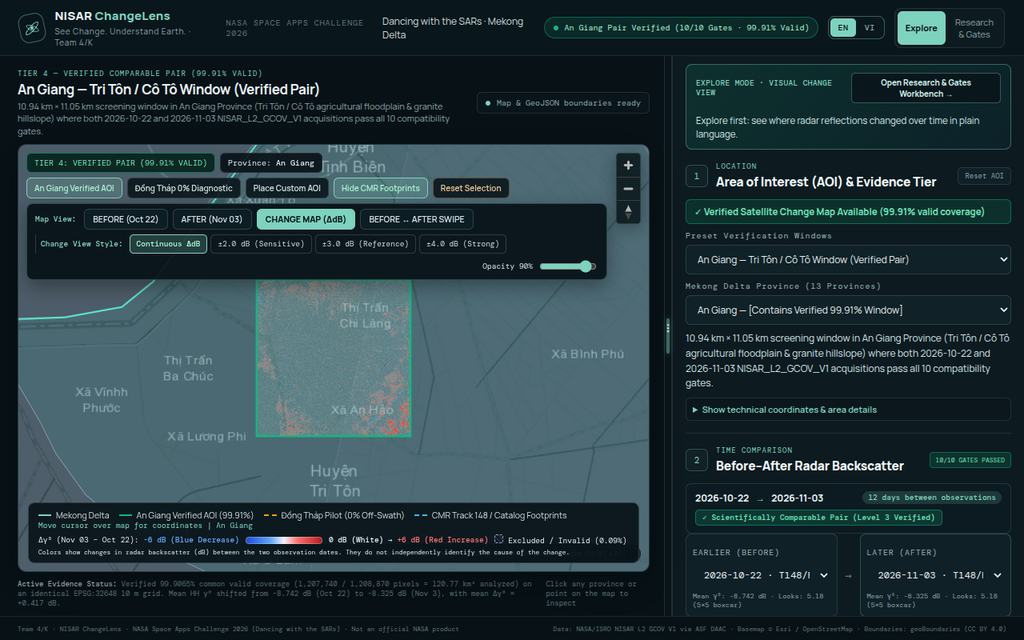
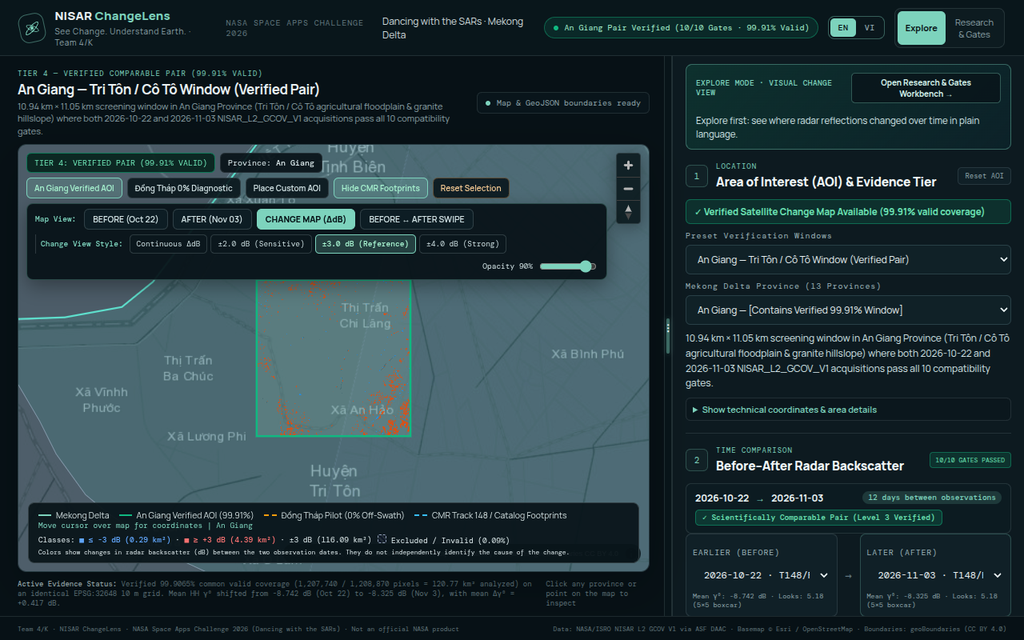
fix(ui): stop claiming the verified result when a blocked pair is selected
The map already hid the verified rasters for a pair that fails the gates,
but the workspace title and description, the map caption (mean delta
+0.417 dB), the AOI valid-coverage figure and the evidence ladder (Tier 4
"All 10 Compatibility Gates Passed") still described the verified
2026-10-22 -> 2026-11-03 pair.

- Derive displayArea from the active area and the selected pair; in the
  An Giang window with an unverified pair it uses pending copy, hides the
  valid-coverage figure and caps the evidence tier at Tier 2 (or Tier 1
  if a footprint misses the window).
- Add a regression test covering title, caption and evidence ladder.
- Remove five translation keys left unused by the old swipe dock.
- Retake screenshots 07 and 08, and retake 06 at the +/-3 dB reference
  threshold so it no longer duplicates 01; update its README caption.

diff --git a/frontend/src/App.tsx b/frontend/src/App.tsx
@@ -269,6 +269,36 @@ function AppWorkbench({ initialMode }: { initialMode?: ViewMode }) {
     [afterConceptId]
   );
 
+  // What the workspace may claim about the active area for the *selected* pair.
+  // The An Giang preset describes the verified 2026-10-22 → 2026-11-03 pair; when
+  // another pair is selected those claims (label, summary, valid %, Tier 4) do not apply.
+  const displayArea: StudyAreaPreset = useMemo(() => {
+    if (area !== 'angiang-screening' || compatibility.allPassed) return activeArea;
+    const bothIntersect = [selectedBeforeGranule, selectedAfterGranule].every(
+      (g) => g !== undefined && bboxesIntersect(g.footprintBbox, activeArea.bbox)
+    );
+    const label = t('area.angiangPendingLabel');
+    const description = t('area.angiangPendingDesc');
+    const summary = t('area.angiangPendingSummary');
+    const badge = t('map.pairPendingBadge');
+    return {
+      ...activeArea,
+      label,
+      label_vi: label,
+      description,
+      description_vi: description,
+      scientificSummary: summary,
+      scientificSummary_vi: summary,
+      evidenceBadge: badge,
+      evidenceBadge_vi: badge,
+      evidenceTier: bothIntersect ? 'TIER_2_FOOTPRINT' : 'TIER_1_CATALOG',
+      comparisonAvailable: false,
+      validCoveragePct: null,
+      commonValidPixels: null,
+      totalPixels: null,
+    };
+  }, [area, compatibility.allPassed, activeArea, selectedBeforeGranule, selectedAfterGranule, t]);
+
   const activeThresholdPreset = useMemo(
     () =>
       VISUALIZATION_THRESHOLD_PRESETS.find((p) => p.id === visualizationThreshold) ??
@@ -454,12 +484,10 @@ function AppWorkbench({ initialMode }: { initialMode?: ViewMode }) {
           <div className="map-toolbar">
             <div>
               <span className="eyebrow" data-testid="area-evidence-badge">
-                {area === 'angiang-screening' && !compatibility.allPassed
-                  ? t('map.pairPendingBadge')
-                  : pick(activeArea.evidenceBadge, activeArea.evidenceBadge_vi)}
+                {pick(displayArea.evidenceBadge, displayArea.evidenceBadge_vi)}
               </span>
-              <h1>{pick(activeArea.label, activeArea.label_vi)}</h1>
-              <p>{pick(activeArea.description, activeArea.description_vi)}</p>
+              <h1>{pick(displayArea.label, displayArea.label_vi)}</h1>
+              <p>{pick(displayArea.description, displayArea.description_vi)}</p>
             </div>
             <div className="map-toolbar-right">
               {railWidth !== DEFAULT_RAIL_WIDTH && (
@@ -514,7 +542,7 @@ function AppWorkbench({ initialMode }: { initialMode?: ViewMode }) {
           <div className="map-caption">
             <span>
               <b>{t('map.activeEvidencePrefix')}</b>{' '}
-              {pick(activeArea.scientificSummary, activeArea.scientificSummary_vi)}
+              {pick(displayArea.scientificSummary, displayArea.scientificSummary_vi)}
             </span>
             <span>
               {location
@@ -650,7 +678,7 @@ function AppWorkbench({ initialMode }: { initialMode?: ViewMode }) {
                 ))}
                 {area === 'custom-aoi' && (
                   <option value="custom-aoi">
-                    {pick(activeArea.label, activeArea.label_vi)}
+                    {pick(displayArea.label, displayArea.label_vi)}
                   </option>
                 )}
               </select>
@@ -678,7 +706,7 @@ function AppWorkbench({ initialMode }: { initialMode?: ViewMode }) {
               {mode === 'explore' ? (
                 <>
                   <p className="explore-location-desc">
-                    {pick(activeArea.description, activeArea.description_vi)}
+                    {pick(displayArea.description, displayArea.description_vi)}
                   </p>
                   <details className="explore-progressive-details">
                     <summary>{t('explore.sec1.coordsSummary')}</summary>
@@ -686,16 +714,16 @@ function AppWorkbench({ initialMode }: { initialMode?: ViewMode }) {
                       <div className="metric-box">
                         <span className="metric-label">{t('sec1.bboxLabel')}</span>
                         <strong>
-                          [{activeArea.bbox[0].toFixed(2)}°E, {activeArea.bbox[1].toFixed(2)}°N,{' '}
-                          {activeArea.bbox[2].toFixed(2)}°E, {activeArea.bbox[3].toFixed(2)}°N]
+                          [{displayArea.bbox[0].toFixed(2)}°E, {displayArea.bbox[1].toFixed(2)}°N,{' '}
+                          {displayArea.bbox[2].toFixed(2)}°E, {displayArea.bbox[3].toFixed(2)}°N]
                         </strong>
                       </div>
                       <div className="metric-box">
                         <span className="metric-label">{t('sec1.areaValidLabel')}</span>
                         <strong>
-                          {activeArea.areaKm2.toLocaleString()} km² ·{' '}
-                          {activeArea.validCoveragePct !== null
-                            ? `${activeArea.validCoveragePct.toFixed(2)}% ${t('sec1.validSuffix')}`
+                          {displayArea.areaKm2.toLocaleString()} km² ·{' '}
+                          {displayArea.validCoveragePct !== null
+                            ? `${displayArea.validCoveragePct.toFixed(2)}% ${t('sec1.validSuffix')}`
                             : t('sec1.unverifiedSubset')}
                         </strong>
                       </div>
@@ -708,16 +736,16 @@ function AppWorkbench({ initialMode }: { initialMode?: ViewMode }) {
                     <div className="metric-box">
                       <span className="metric-label">{t('sec1.bboxLabel')}</span>
                       <strong>
-                        [{activeArea.bbox[0].toFixed(2)}°E, {activeArea.bbox[1].toFixed(2)}°N,{' '}
-                        {activeArea.bbox[2].toFixed(2)}°E, {activeArea.bbox[3].toFixed(2)}°N]
+                        [{displayArea.bbox[0].toFixed(2)}°E, {displayArea.bbox[1].toFixed(2)}°N,{' '}
+                        {displayArea.bbox[2].toFixed(2)}°E, {displayArea.bbox[3].toFixed(2)}°N]
                       </strong>
                     </div>
                     <div className="metric-box">
                       <span className="metric-label">{t('sec1.areaValidLabel')}</span>
                       <strong>
-                        {activeArea.areaKm2.toLocaleString()} km² ·{' '}
-                        {activeArea.validCoveragePct !== null
-                          ? `${activeArea.validCoveragePct.toFixed(2)}% ${t('sec1.validSuffix')}`
+                        {displayArea.areaKm2.toLocaleString()} km² ·{' '}
+                        {displayArea.validCoveragePct !== null
+                          ? `${displayArea.validCoveragePct.toFixed(2)}% ${t('sec1.validSuffix')}`
                           : t('sec1.unverifiedSubset')}
                       </strong>
                     </div>
@@ -726,11 +754,11 @@ function AppWorkbench({ initialMode }: { initialMode?: ViewMode }) {
                   <div className="evidence-ladder" aria-label={t('sec1.ladderAria')}>
                     <span className="field-label">{t('sec1.ladderTitle')}</span>
                     {EVIDENCE_TIERS.map((tier) => {
-                      const isCurrent = activeArea.evidenceTier === tier.id;
+                      const isCurrent = displayArea.evidenceTier === tier.id;
                       const isPassed =
-                        (activeArea.evidenceTier === 'TIER_4_COMPARABLE' && tier.level <= 4) ||
-                        (activeArea.evidenceTier === 'TIER_2_FOOTPRINT' && tier.level <= 2) ||
-                        (activeArea.evidenceTier === 'TIER_1_CATALOG' && tier.level === 1);
+                        (displayArea.evidenceTier === 'TIER_4_COMPARABLE' && tier.level <= 4) ||
+                        (displayArea.evidenceTier === 'TIER_2_FOOTPRINT' && tier.level <= 2) ||
+                        (displayArea.evidenceTier === 'TIER_1_CATALOG' && tier.level === 1);
                       return (
                         <div
                           key={tier.id}

diff --git a/frontend/src/i18n/translations.ts b/frontend/src/i18n/translations.ts
@@ -42,6 +42,11 @@ export const TRANSLATIONS: Record<Language, Record<string, string>> = {
     'banner.pairBlockedBody':
       'The verified 2026-10-22 → 2026-11-03 change layers are hidden so they are not mistaken for this pair.',
     'explore.sec1.statusPairPending': '⚠ Selected pair not verified — change map hidden',
+    'area.angiangPendingLabel': 'An Giang — Tri Tôn / Cô Tô Window',
+    'area.angiangPendingDesc':
+      '10.94 km × 11.05 km screening window in An Giang Province (Tri Tôn / Cô Tô). The selected observation pair has not passed the compatibility gates here, so no change result is shown for it. The verified pair for this window is 2026-10-22 → 2026-11-03.',
+    'area.angiangPendingSummary':
+      'Selected pair not verified for this window. Statistics from the verified 2026-10-22 → 2026-11-03 pair are hidden until that pair is selected.',
     'hud.tier1Catalog': 'TIER 1: MEKONG CATALOG (29 GRANULES)',
     'hud.provincePrefix': 'Province:',
     'hud.btnAnGiang': 'An Giang Verified AOI',
@@ -73,12 +78,6 @@ export const TRANSLATIONS: Record<Language, Record<string, string>> = {
 
     // Swipe Dock on Map
     'swipe.dockAria': 'Before and After NISAR HH backscatter swipe comparison',
-    'swipe.title': 'Before / After Calibrated Backscatter Swipe',
-    'swipe.subtitle':
-      'An Giang [104.95, 10.45, 105.05, 10.55] · EPSG:32648 10 m · 1,207,740 valid pixels',
-    'swipe.badge': 'REAL NISAR L2 GCOV V1',
-    'swipe.beforeAlt': 'Before: 2026-10-22 NISAR HHHH gamma-0 dB',
-    'swipe.afterAlt': 'After: 2026-11-03 NISAR HHHH gamma-0 dB',
     'swipe.tagLeft': '2026-10-22 (Before · Mean -8.74 dB)',
     'swipe.tagRight': '2026-11-03 (After · Mean -8.33 dB)',
     'swipe.splitLabel': 'Swipe Split',
@@ -413,6 +412,11 @@ export const TRANSLATIONS: Record<Language, Record<string, string>> = {
     'banner.pairBlockedBody':
       'Các lớp biến động đã xác thực 2026-10-22 → 2026-11-03 được ẩn để không bị nhầm là kết quả của cặp ảnh này.',
     'explore.sec1.statusPairPending': '⚠ Cặp ảnh đã chọn chưa xác thực — đã ẩn bản đồ biến động',
+    'area.angiangPendingLabel': 'An Giang — Cửa sổ Tri Tôn / Cô Tô',
+    'area.angiangPendingDesc':
+      'Cửa sổ sàng lọc 10,94 km × 11,05 km tại tỉnh An Giang (Tri Tôn / Cô Tô). Cặp ảnh đang chọn chưa vượt qua các cổng kiểm tra tương thích tại đây, nên không hiển thị kết quả biến động cho cặp này. Cặp ảnh đã xác thực của cửa sổ này là 2026-10-22 → 2026-11-03.',
+    'area.angiangPendingSummary':
+      'Cặp ảnh đang chọn chưa được xác thực cho cửa sổ này. Số liệu của cặp đã xác thực 2026-10-22 → 2026-11-03 được ẩn cho đến khi chọn lại cặp đó.',
     'hud.tier1Catalog': 'TẦNG 1: DANH MỤC ĐBSCL (29 GRANULE)',
     'hud.provincePrefix': 'Tỉnh/Thành:',
     'hud.btnAnGiang': 'AOI An Giang (Đã xác thực)',
@@ -444,12 +448,6 @@ export const TRANSLATIONS: Record<Language, Record<string, string>> = {
 
     // Swipe Dock on Map
     'swipe.dockAria': 'So sánh trượt tán xạ ngược HH NISAR Trước và Sau',
-    'swipe.title': 'So sánh trượt Tán xạ ngược (Backscatter) Trước / Sau',
-    'swipe.subtitle':
-      'An Giang [104.95, 10.45, 105.05, 10.55] · EPSG:32648 10 m · 1.207.740 điểm ảnh hợp lệ',
-    'swipe.badge': 'DỮ LIỆU THẬT NISAR L2 GCOV V1',
-    'swipe.beforeAlt': 'Trước: 2026-10-22 NISAR HHHH gamma-0 dB',
-    'swipe.afterAlt': 'Sau: 2026-11-03 NISAR HHHH gamma-0 dB',
     'swipe.tagLeft': '22/10/2026 (Trước · TB -8,74 dB)',
     'swipe.tagRight': '03/11/2026 (Sau · TB -8,33 dB)',
     'swipe.splitLabel': 'Tỷ lệ thanh trượt',

diff --git a/frontend/src/test/map_gating.test.tsx b/frontend/src/test/map_gating.test.tsx
@@ -189,6 +189,31 @@ describe('Map raster gating', () => {
     expect(screen.queryByTestId('swipe-divider')).not.toBeInTheDocument();
   });
 
+  it('does not claim the verified result in the title, caption or evidence ladder for a blocked pair', () => {
+    render(<App initialMode="research" />);
+    const tierRow = (title: string) => screen.getByText(title).closest('.tier-row');
+    const caption = () => document.querySelector('.map-caption') as HTMLElement;
+
+    expect(screen.getByRole('heading', { level: 1 })).toHaveTextContent('(Verified Pair)');
+    expect(tierRow('4. Scientifically Comparable Pair')).toHaveClass('tier-passed');
+
+    const unverified = discoverCompatiblePairs('angiang-screening').find(
+      (p) => !p.hasLocalVerifiedRasterInAnGiang
+    );
+    fireEvent.click(screen.getByTestId(`load-pair-${unverified!.id}`));
+
+    expect(screen.getByRole('heading', { level: 1 })).not.toHaveTextContent('Verified Pair');
+    expect(caption()).toHaveTextContent('Selected pair not verified');
+    expect(caption()).not.toHaveTextContent('+0.417');
+    expect(tierRow('4. Scientifically Comparable Pair')).not.toHaveClass('tier-passed');
+    expect(tierRow('3. Valid Raster Coverage')).not.toHaveClass('tier-passed');
+    expect(screen.queryByText(/99\.91% valid/)).not.toBeInTheDocument();
+
+    fireEvent.click(within(screen.getByTestId('pair-blocked-banner')).getByRole('button'));
+    expect(screen.getByRole('heading', { level: 1 })).toHaveTextContent('(Verified Pair)');
+    expect(tierRow('4. Scientifically Comparable Pair')).toHaveClass('tier-passed');
+  });
+
   it('does not offer the swipe for a pair that failed the gates', async () => {
     await renderAndLoadMap();
     fireEvent.click(screen.getByTestId('map-view-swipe'));

diff --git a/README.md b/README.md
@@ -139,7 +139,7 @@ Complete set of 11 verified UX & Scientific Comparison screenshots in [`docs/scr
 - [`03_resized_layout.png`](docs/screenshots/03_resized_layout.png) — Resized Map / Sidebar layout (`584px` sidebar via draggable splitter + `Reset Width` button).
 - [`04_before_visualization.png`](docs/screenshots/04_before_visualization.png) — **Before (`2026-10-22`)** calibrated HH $\gamma^0$ backscatter visualization.
 - [`05_after_visualization.png`](docs/screenshots/05_after_visualization.png) — **After (`2026-11-03`)** calibrated HH $\gamma^0$ backscatter visualization.
-- [`06_change_visualization.png`](docs/screenshots/06_change_visualization.png) — **Change Map ($\Delta\text{dB}$)** with threshold controls (`Continuous`, `±2.0 dB`, `±3.0 dB Reference`, `±4.0 dB`) and diverging colorbar.
+- [`06_change_visualization.png`](docs/screenshots/06_change_visualization.png) — **Change Map ($\Delta\text{dB}$)** classified at the `±3.0 dB` reference threshold (`Continuous`, `±2.0 dB` and `±4.0 dB` are also selectable).
 - [`07_compatibility_failure_explore.png`](docs/screenshots/07_compatibility_failure_explore.png) — Simplified plain-language compatibility explanation in **Explore** mode.
 - [`08_compatibility_report_research.png`](docs/screenshots/08_compatibility_report_research.png) — Detailed 10-Gate Compatibility Report & CRID Policy (`P05036` vs `P05023`) in **Research** mode.
 - [`09_english_interface.png`](docs/screenshots/09_english_interface.png) — **English (`EN`)** interface with the on-map Before $\leftrightarrow$ After swipe divider (drag to compare `2026-10-22` and `2026-11-03`).
